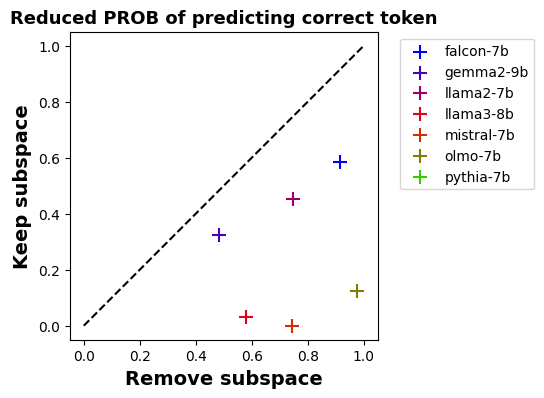
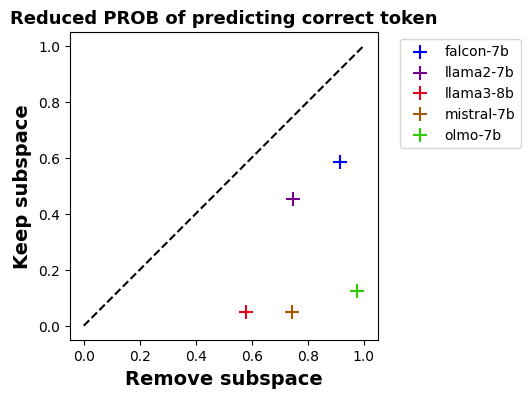
Update results

diff --git a/src/tasks/gsm_tiny/report.py b/src/tasks/gsm_tiny/report.py
@@ -51,7 +51,6 @@ def load_removal_results(model_name, type):
             d[f"seed{masked_seed}"][masked_n_heads] = getattr(result, type)
         elif masked_method == "top_ih":
             d["top_ih"][masked_n_heads] = getattr(result, type)
-
     return d
 
 
@@ -144,6 +143,22 @@ def main_removal():
         json.dump(d_removal, f, indent=4)
 
     print(not_found)
+
+    for model_name, model_data in d_removal.items():
+        print(model_name)
+        model_data = model_data["acc"]
+        masked_heads = list(model_data["top_ih"].keys())
+        for head in masked_heads:
+
+            print(f"Head {head}")
+            print(f"Top IH {model_data['top_ih'][head]:.2f}")
+            if head != 0:
+                accs = [
+                    model_data[seed][head] for seed in model_data if seed != "top_ih"
+                ]
+                print(f"Random {np.mean(accs):.2f}")
+
+        print("-" * 100)
 
     plot_removal(d_removal, "acc")
 

diff --git a/src/tasks/ioi/report.py b/src/tasks/ioi/report.py
@@ -11,7 +11,7 @@ import src.api.result as result_api
 
 RESULTS_DIR = os.path.join("results")
 FIGURES_DIR = os.path.join("figures")
-IGNORE_MODELS = ["gpt2", "gpt2-xl", "gemma-7b"]
+IGNORE_MODELS = ["gpt2", "gpt2-xl", "gemma-7b", "gemma2-9b", "pythia-7b"]
 
 
 os.makedirs(FIGURES_DIR, exist_ok=True)
@@ -194,7 +194,9 @@ def plot_projection_results(d, component, type):
 
         p1 = ax.scatter(
             (baseline - proj_true) / baseline,
-            (baseline - proj_false) / baseline,
+            max(
+                (baseline - proj_false) / baseline, 0.05
+            ),  # if proj_false is greater than baseline, set to 0.05
             marker="+",
             s=100,
             color=colors[i],
